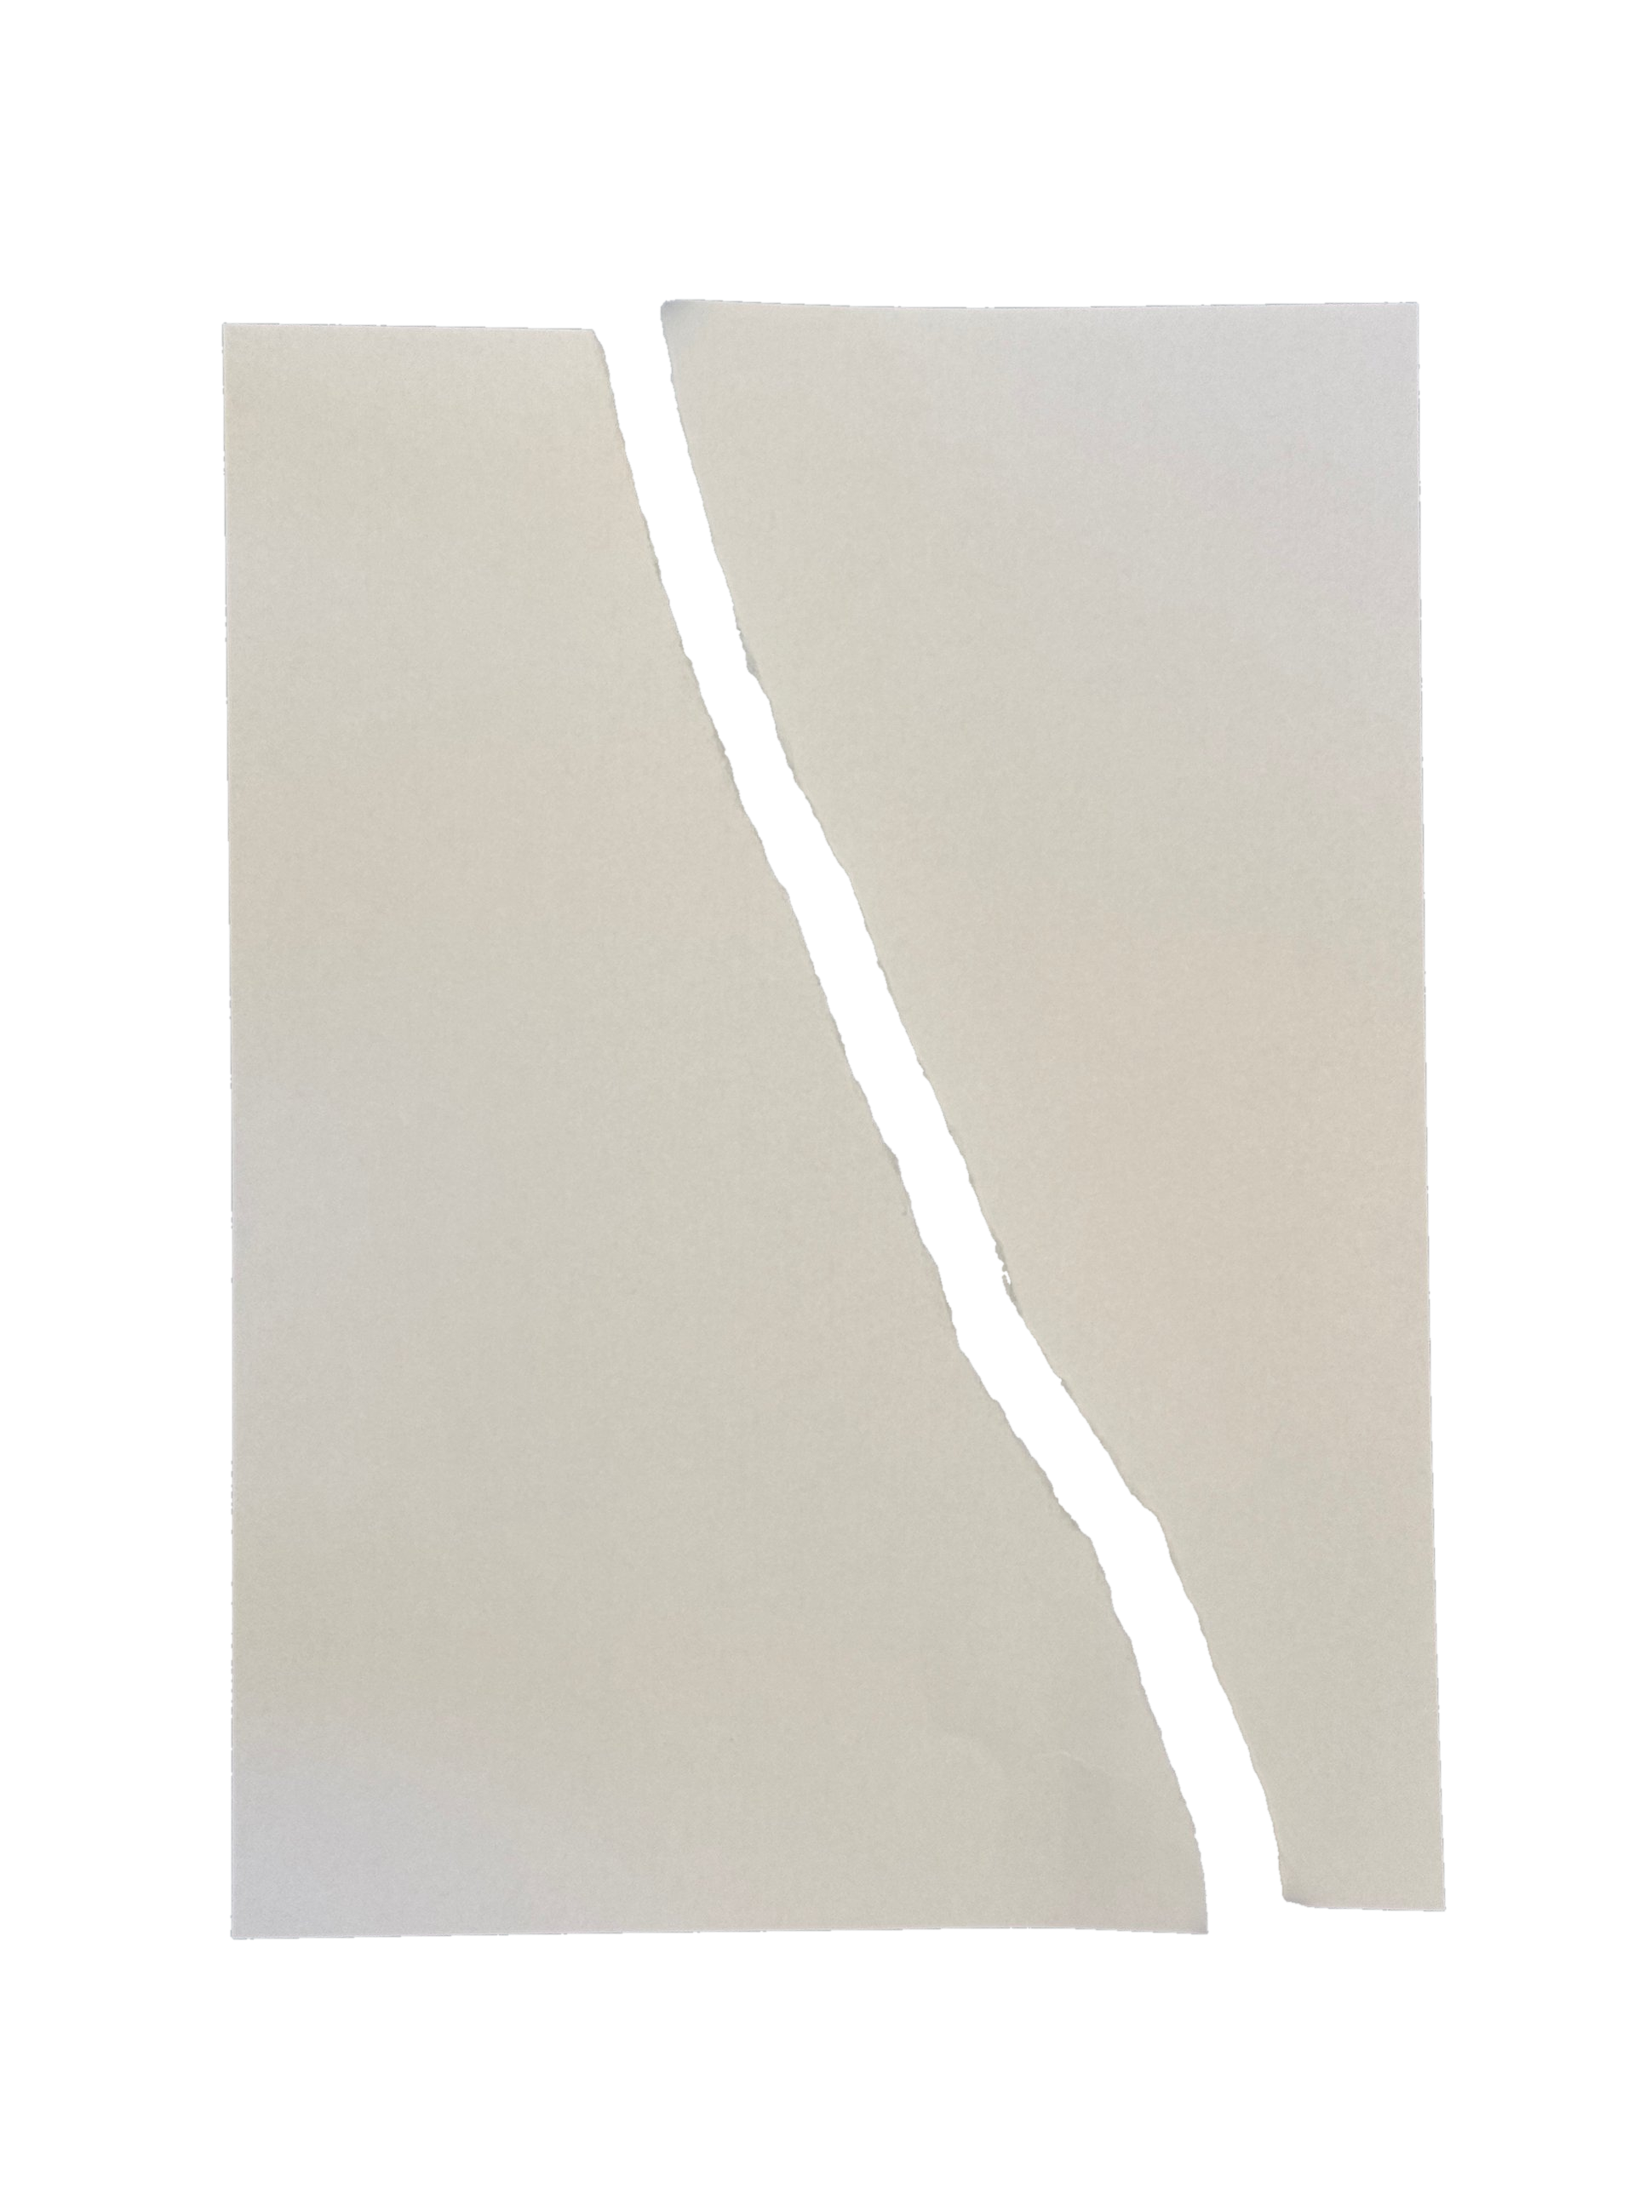
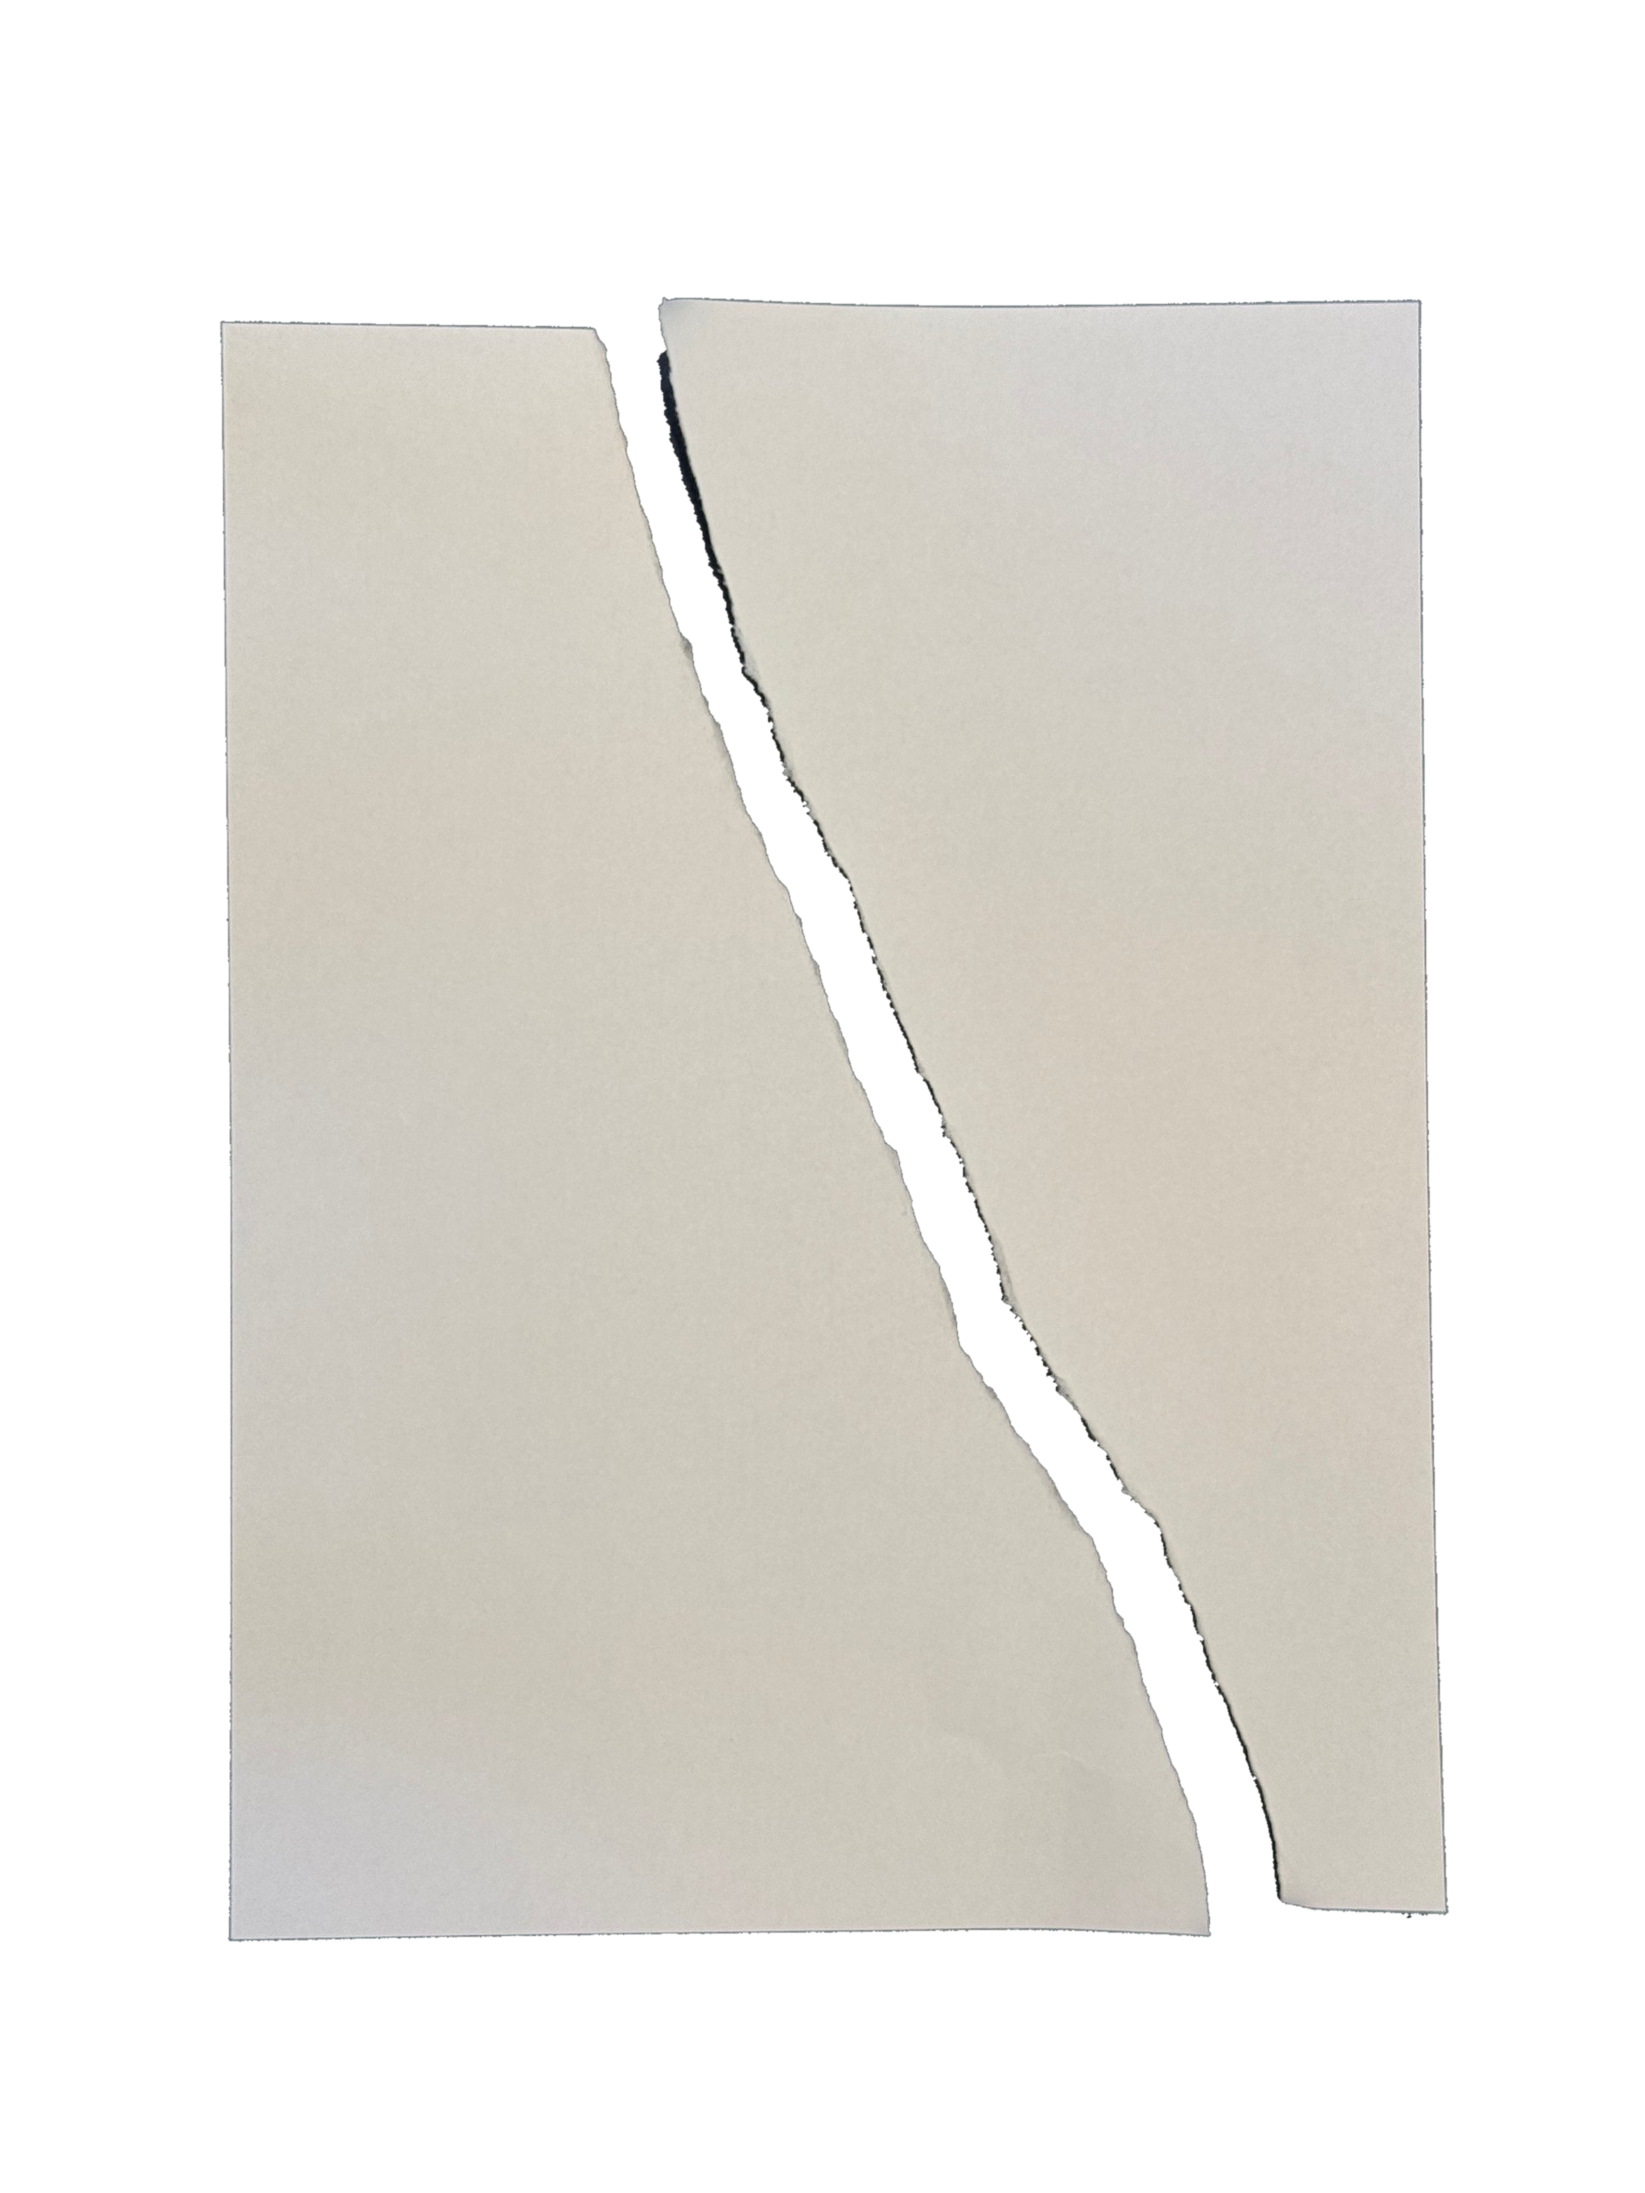
Add deep-curve and strip tears; key cutouts on backdrop colour so shadows and fibres survive
Claude-Session: https://claude.ai/code/session_018oSu7WVBdN681zjmvDKqwA

diff --git a/tools/cutout.py b/tools/cutout.py
@@ -1,0 +1,26 @@
+import sys, numpy as np
+from PIL import Image, ImageFilter
+from scipy import ndimage as ndi
+src, dst = sys.argv[1], sys.argv[2]
+im = Image.open(src).convert('RGB')
+a = np.asarray(im).astype(np.float32)
+h, w, _ = a.shape
+# sample the backdrop from the four borders, then measure distance to it
+border = np.concatenate([a[:40].reshape(-1,3), a[-40:].reshape(-1,3), a[:, :40].reshape(-1,3), a[:, -40:].reshape(-1,3)])
+bg = np.median(border, axis=0)
+lum = a.mean(axis=2); bgl = bg.mean()
+# backdrop = close to backdrop colour AND not much brighter than it (paper in shade stays paper)
+d = np.sqrt(((a - bg) ** 2).sum(axis=2))
+isbg = (d < 55) & (lum < bgl + 45)
+isbg = ndi.binary_opening(isbg, iterations=2)
+lab, n = ndi.label(isbg)
+sizes = ndi.sum(isbg, lab, range(1, n + 1))
+keep = np.isin(lab, 1 + np.where(sizes > h * w * 0.0015)[0])   # drop specks inside paper
+paper = ~keep
+paper = ndi.binary_fill_holes(ndi.binary_closing(paper, iterations=1)) & ~keep | paper
+pl, pn = ndi.label(paper)
+psz = ndi.sum(paper, pl, range(1, pn + 1))
+paper = np.isin(pl, 1 + np.where(psz > h * w * 0.01)[0])        # drop backdrop specks read as paper
+m = Image.fromarray((paper * 255).astype(np.uint8)).filter(ImageFilter.GaussianBlur(0.8))
+rgba = im.copy(); rgba.putalpha(m); rgba.save(dst)
+print(dst, 'bg', bg.round(), f"paper={paper.mean():.2%}")
